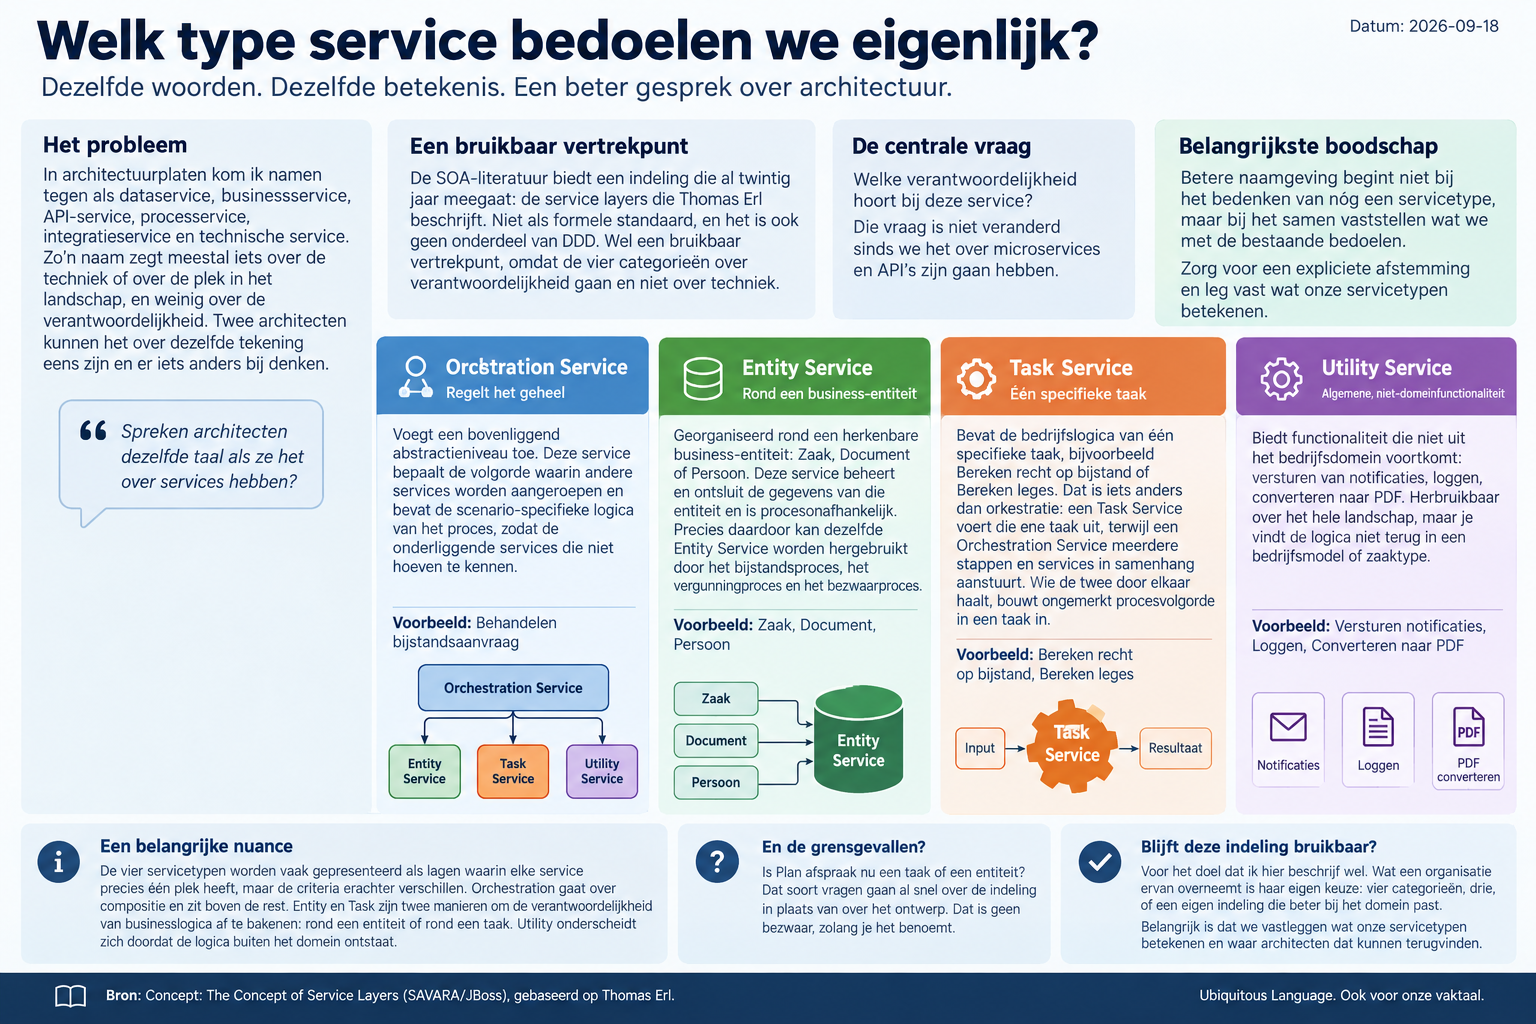
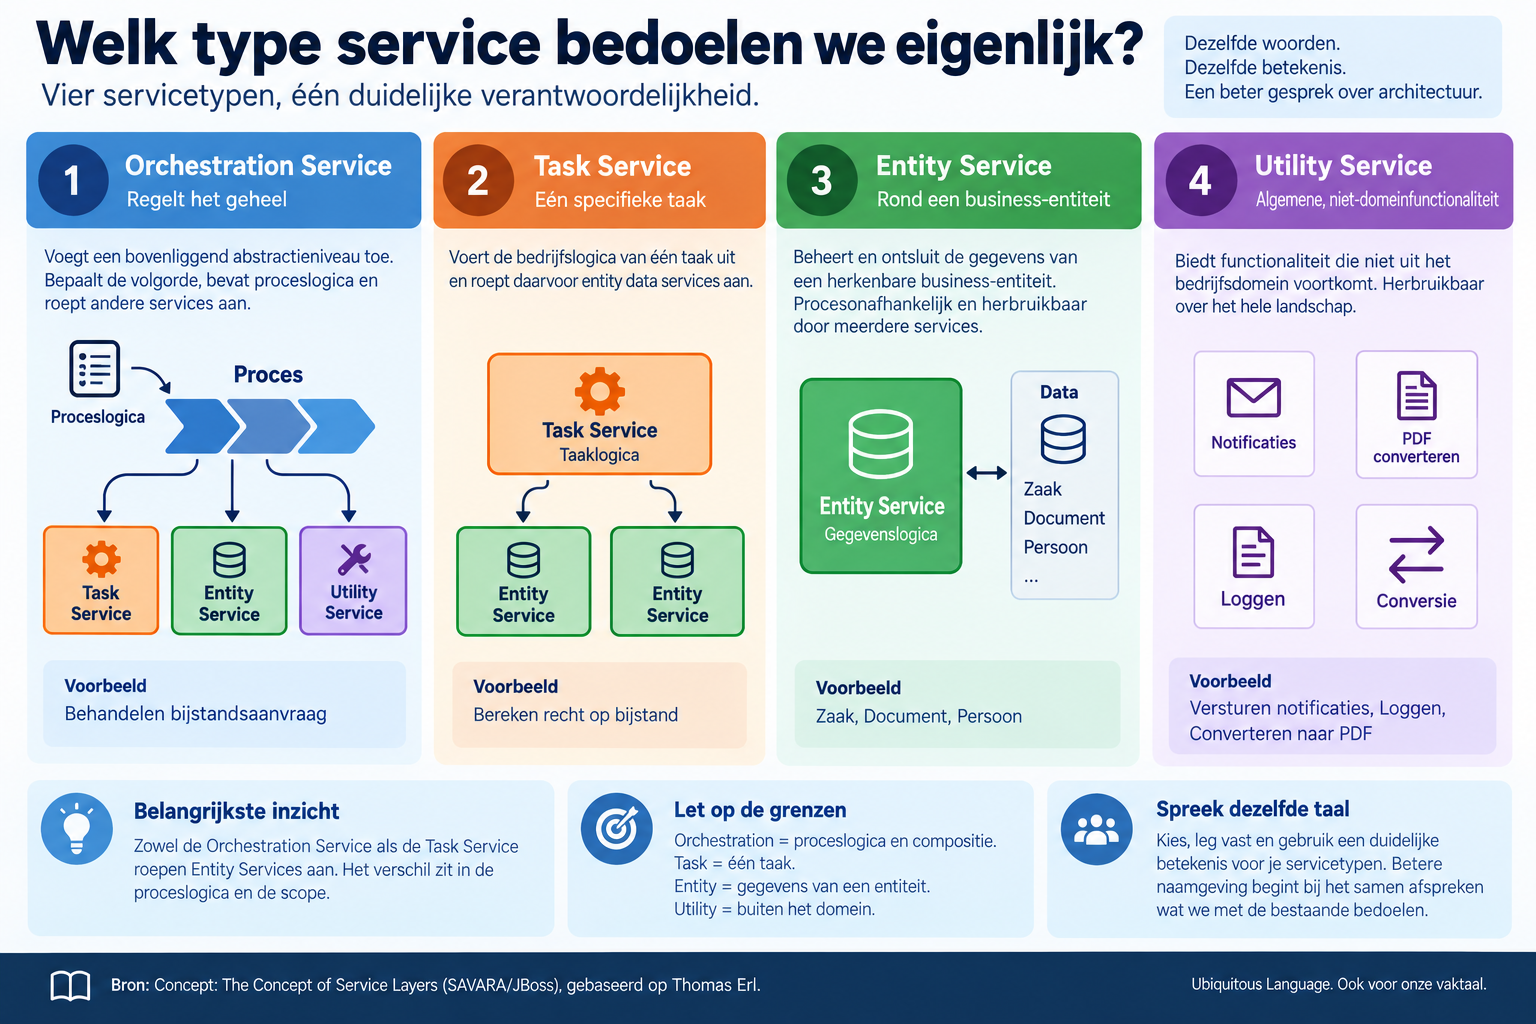
werk infographic blog 116 bij naar nieuwe versie

diff --git a/site/nl/116-welk-type-service-bedoelen-we-eigenlijk/index.html b/site/nl/116-welk-type-service-bedoelen-we-eigenlijk/index.html
@@ -1479,7 +1479,7 @@
 <p>Binnen een domein streven we naar een Ubiquitous Language: het idee uit Domain-Driven Design dat iedereen dezelfde woorden gebruikt voor dezelfde begrippen. Voor onze eigen vaktaal nemen we die discipline er niet altijd bij. Spreken architecten dezelfde taal als ze het over services hebben?</p>
 <p>In architectuurplaten kom ik namen tegen als dataservice, businessservice, API-service, processervice, integratieservice en technische service. Zo'n naam zegt meestal iets over de techniek of over de plek in het landschap, en weinig over de verantwoordelijkheid. Daar komt bij dat verschillende begrippen door elkaar lopen. Een API is het contract waarmee je een service aanroept, geen soort service. Twee architecten kunnen het over dezelfde tekening eens zijn en er iets anders bij denken.</p>
 <p>Een beperkte, expliciete indeling van servicetypen helpt dat gesprek vooruit. De SOA-literatuur biedt er een die al twintig jaar meegaat: de service layers die Thomas Erl beschrijft. Niet als formele standaard, en het is ook geen onderdeel van DDD. Wel een bruikbaar vertrekpunt, omdat de vier categorieën over verantwoordelijkheid gaan en niet over techniek.</p>
-<p><img alt="Overzicht van de vier servicetypen van Thomas Erl: Orchestration, Entity, Task en Utility Service, met voorbeelden uit een gemeentelijke context" src="../../assets/blog-116-services-by-Thomas-Erl.png" /></p>
+<p><img alt="Overzicht van de vier servicetypen van Thomas Erl: Orchestration, Task, Entity en Utility Service, met voorbeelden uit een gemeentelijke context" src="../../assets/blog-116-services-by-Thomas-Erl.png" /></p>
 <p>Een <strong>Orchestration Service</strong> voegt een bovenliggend abstractieniveau toe. Deze service bepaalt de volgorde waarin andere services worden aangeroepen en bevat de scenario-specifieke logica van het proces, zodat de onderliggende services die niet hoeven te kennen. Denk aan Behandelen bijstandsaanvraag.</p>
 <p>Een <strong>Entity Service</strong> is georganiseerd rond een herkenbare business-entiteit: Zaak, Document of Persoon. Deze service beheert en ontsluit de gegevens van die entiteit en is procesonafhankelijk. Precies daardoor kan dezelfde Entity Service worden hergebruikt door het bijstandsproces, het vergunningproces en het bezwaarproces.</p>
 <p>Een <strong>Task Service</strong> bevat de bedrijfslogica van één specifieke taak, bijvoorbeeld Bereken recht op bijstand of Bereken leges. Dat is iets anders dan orkestratie: een Task Service voert die ene taak uit, terwijl een Orchestration Service meerdere stappen en services in samenhang aanstuurt. Wie de twee door elkaar haalt, bouwt ongemerkt procesvolgorde in een taak in.</p>

diff --git a/content/nl/116-welk-type-service-bedoelen-we-eigenlijk.md b/content/nl/116-welk-type-service-bedoelen-we-eigenlijk.md
@@ -8,7 +8,7 @@ In architectuurplaten kom ik namen tegen als dataservice, businessservice, API-s
 
 Een beperkte, expliciete indeling van servicetypen helpt dat gesprek vooruit. De SOA-literatuur biedt er een die al twintig jaar meegaat: de service layers die Thomas Erl beschrijft. Niet als formele standaard, en het is ook geen onderdeel van DDD. Wel een bruikbaar vertrekpunt, omdat de vier categorieën over verantwoordelijkheid gaan en niet over techniek.
 
-![Overzicht van de vier servicetypen van Thomas Erl: Orchestration, Entity, Task en Utility Service, met voorbeelden uit een gemeentelijke context](../assets/blog-116-services-by-Thomas-Erl.png)
+![Overzicht van de vier servicetypen van Thomas Erl: Orchestration, Task, Entity en Utility Service, met voorbeelden uit een gemeentelijke context](../assets/blog-116-services-by-Thomas-Erl.png)
 
 Een **Orchestration Service** voegt een bovenliggend abstractieniveau toe. Deze service bepaalt de volgorde waarin andere services worden aangeroepen en bevat de scenario-specifieke logica van het proces, zodat de onderliggende services die niet hoeven te kennen. Denk aan Behandelen bijstandsaanvraag.
 
